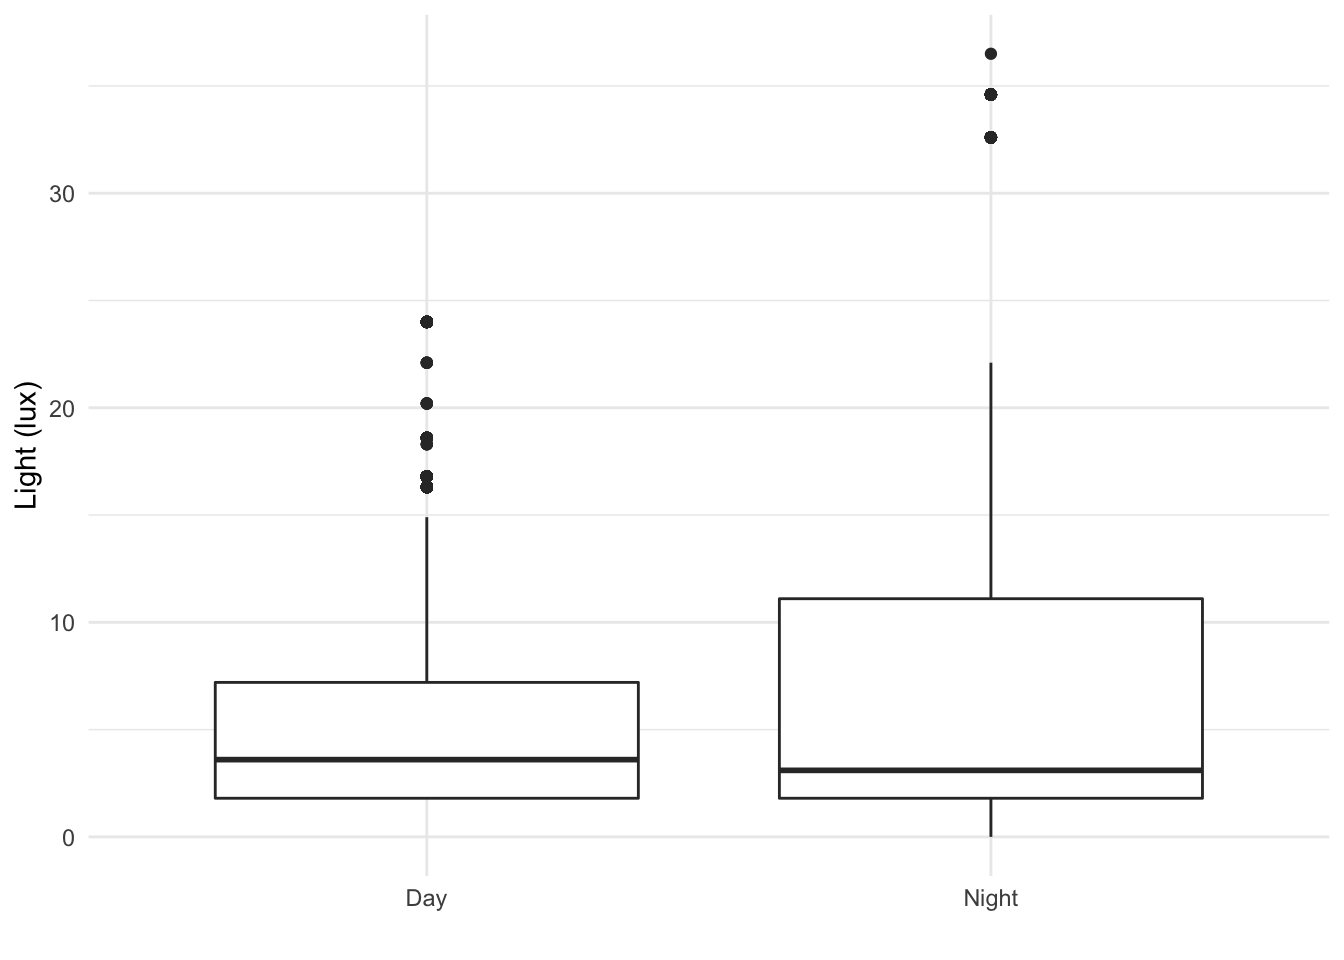
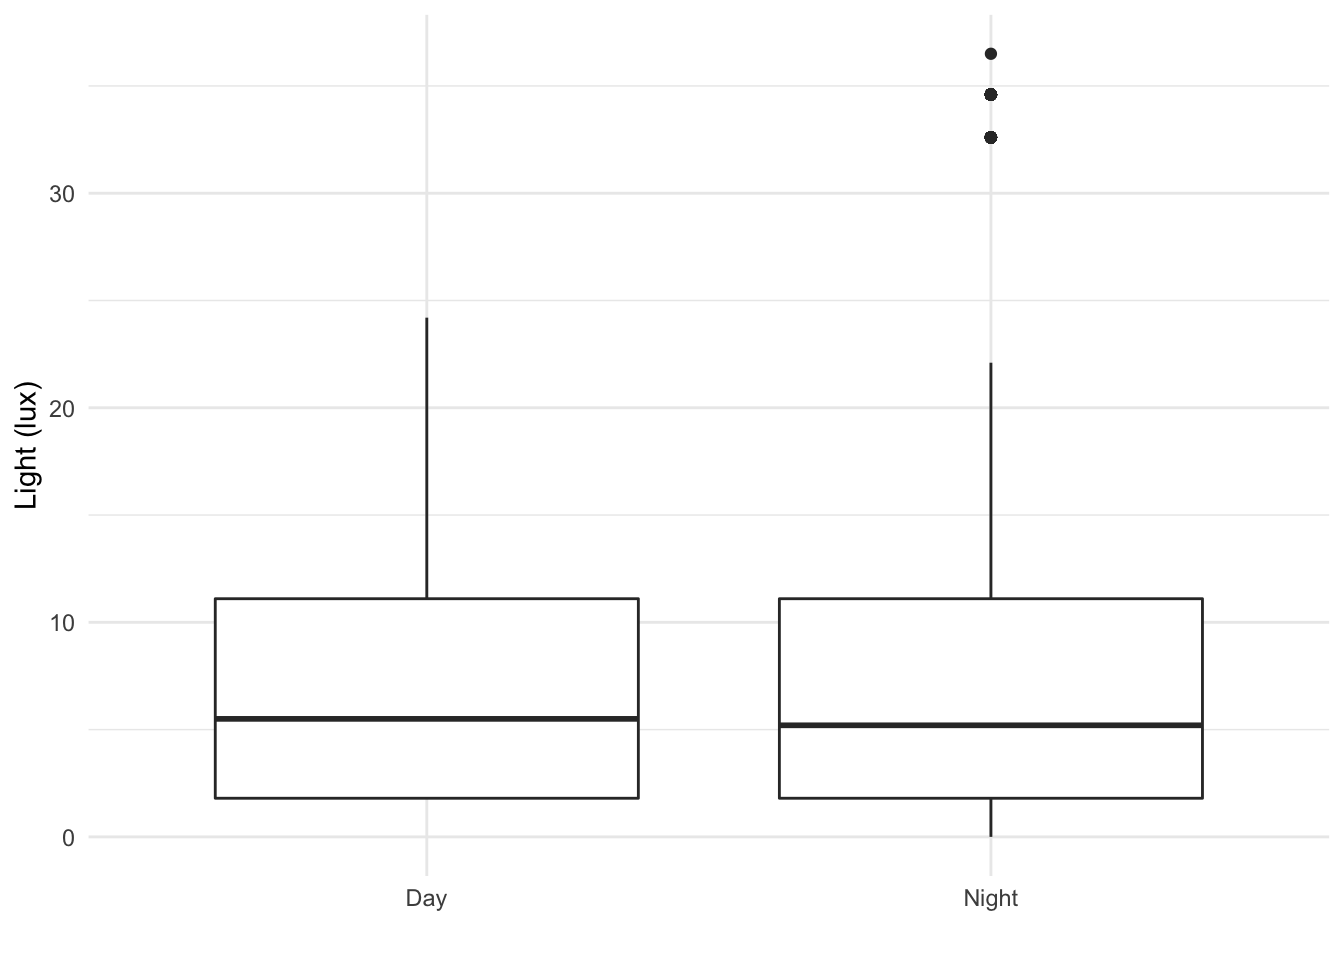
fixing tutorial

diff --git a/docs/AQexp2.html b/docs/AQexp2.html
@@ -347,7 +347,7 @@ airDF &lt;- readr::read_tsv(&quot;https://raw.githubusercontent.com/EA30POM/site
 
 ### How many observations and columns do we have?
 dim(airDF)</code></pre>
-<pre><code>## [1] 19010    23</code></pre>
+<pre><code>## [1] 28531    23</code></pre>
 <div id="using-the-view-command" class="section level3" number="1.2.1">
 <h3><span class="header-section-number">1.2.1</span> Using the
 <code>View</code> command</h3>
@@ -437,12 +437,12 @@ their mean <code>Lux</code> values.</p>
 <pre class="r"><code>### Calculating differences in mean Lux values
 obs_diff &lt;- diff( mean( Lux ~ DayNight, data=airDF, na.rm=T ) )
 obs_diff # print out the value</code></pre>
-<pre><code>##     Night 
-## 0.9264511</code></pre>
-<p>OK, so we see that there is a difference of 0.93 in mean light levels
-across day and night. Is this a meaningful difference though? Our null
-hypothesis is that there is <strong>no difference</strong> in mean light
-levels between day and night (again, a silly example, I know).</p>
+<pre><code>##      Night 
+## -0.5770775</code></pre>
+<p>OK, so we see that there is a difference of -0.58 in mean light
+levels across day and night. Is this a meaningful difference though? Our
+null hypothesis is that there is <strong>no difference</strong> in mean
+light levels between day and night (again, a silly example, I know).</p>
 <p>Logically, if there is a meaningful difference, then if we shuffle
 our data around, that should lead to different results than what we see.
 That is one way to <em>simulate</em> statistics to test the null
@@ -455,20 +455,20 @@ another function, <code>select</code>, to pull out particular columns of
 interest from the data.</p>
 <pre class="r"><code>airDF %&gt;%
   dplyr::select(Date,Time,Lux,DayNight)</code></pre>
-<pre><code>## # A tibble: 19,010 x 4
+<pre><code>## # A tibble: 28,531 x 4
 ##    Date       Time         Lux DayNight
 ##    &lt;date&gt;     &lt;Period&gt;   &lt;dbl&gt; &lt;chr&gt;   
-##  1 2022-12-09 13H 9M 24S  24   Day     
-##  2 2022-12-09 13H 9M 25S   7.2 Day     
-##  3 2022-12-09 13H 9M 26S   7.2 Day     
-##  4 2022-12-09 13H 9M 27S   7.2 Day     
-##  5 2022-12-09 13H 9M 28S   7.2 Day     
-##  6 2022-12-09 13H 9M 29S  24   Day     
-##  7 2022-12-09 13H 9M 30S   7.2 Day     
-##  8 2022-12-09 13H 9M 31S   7.2 Day     
-##  9 2022-12-09 13H 9M 32S   7.2 Day     
-## 10 2022-12-09 13H 9M 33S   7.3 Day     
-## # … with 19,000 more rows</code></pre>
+##  1 2022-07-09 22H 0M 3S   11.1 Night   
+##  2 2022-07-09 22H 0M 4S    9.1 Night   
+##  3 2022-07-09 22H 0M 5S   11.1 Night   
+##  4 2022-07-09 22H 0M 6S   11.1 Night   
+##  5 2022-07-09 22H 0M 7S   11.1 Night   
+##  6 2022-07-09 22H 0M 8S    9.1 Night   
+##  7 2022-07-09 22H 0M 9S    9.1 Night   
+##  8 2022-07-09 22H 0M 10S   9.1 Night   
+##  9 2022-07-09 22H 0M 11S  11.1 Night   
+## 10 2022-07-09 22H 0M 12S  11.1 Night   
+## # … with 28,521 more rows</code></pre>
 <p>Here’s what the data look like if we shuffle it by randomizing the
 assignment of observations as day or night. This is like a chaos agent
 coming around and slapping a new label for day or night on at random for
@@ -476,37 +476,37 @@ every row in the data table. (But if we think <code>mean(Lux)</code> is
 the same for <code>Day</code> and <code>Night</code>, then that should
 be a perfectly OK action by the chaos agent.)</p>
 <pre class="r"><code>print(resample(airDF[,c(&quot;Date&quot;,&quot;Time&quot;,&quot;Lux&quot;,&quot;DayNight&quot;)],groups=DayNight,shuffled=c(&quot;Lux&quot;)))</code></pre>
-<pre><code>## # A tibble: 19,010 x 5
+<pre><code>## # A tibble: 28,531 x 5
 ##    Date       Time        DayNight   Lux orig.id    
 ##    &lt;date&gt;     &lt;Period&gt;    &lt;chr&gt;    &lt;dbl&gt; &lt;chr&gt;      
-##  1 2022-08-09 1H 35M 51S  Day        3.6 17796.8606 
-##  2 2022-08-09 12H 5M 2S   Day        5.5 8793.18225 
-##  3 2022-09-09 12H 16M 34S Day        7.2 3623.603   
-##  4 2022-09-09 12H 58M 11S Day       14.9 15754.6227 
-##  5 2022-07-09 12H 50M 5S  Day        3.6 7264.8563  
-##  6 2022-08-09 11H 28M 41S Day        7.2 6298.17    
-##  7 2022-08-09 12H 3M 50S  Day        1.8 8721.17432 
-##  8 2022-08-09 12H 33M 32S Day        1.8 14269.7141 
-##  9 2022-08-09 11H 57M 20S Day        1.8 18128.18002
-## 10 2022-12-09 13H 18M 31S Day        1.8 548.17461  
-## # … with 19,000 more rows</code></pre>
+##  1 2022-07-09 12H 44M 59S Day        3.1 5851.16135 
+##  2 2022-08-09 12H 1M 24S  Day       16.8 23827.22894
+##  3 2022-09-09 12H 58M 52S Day        9.1 16535.27681
+##  4 2022-08-09 15H 7M 50S  Day        1.8 27766.14249
+##  5 2022-08-09 15H 9M 55S  Day        1.8 27891.17774
+##  6 2022-09-09 12H 54M 32S Day       11.1 16275.25576
+##  7 2022-09-09 13H 5M 15S  Day        1.8 11197.18405
+##  8 2022-09-09 13H 14M 38S Day       13   11760.2401 
+##  9 2022-09-09 12H 16M 25S Day        3.1 2536.16692 
+## 10 2022-12-09 13H 19M 59S Day       16.8 27168.22894
+## # … with 28,521 more rows</code></pre>
 <p>We can repeat that procedure again and see how the data shifts if we
 do another shuffle.</p>
 <pre class="r"><code>print(resample(airDF[,c(&quot;Date&quot;,&quot;Time&quot;,&quot;Lux&quot;,&quot;DayNight&quot;)],groups=DayNight,shuffled=c(&quot;Lux&quot;)))</code></pre>
-<pre><code>## # A tibble: 19,010 x 5
+<pre><code>## # A tibble: 28,531 x 5
 ##    Date       Time        DayNight   Lux orig.id    
 ##    &lt;date&gt;     &lt;Period&gt;    &lt;chr&gt;    &lt;dbl&gt; &lt;chr&gt;      
-##  1 2022-08-09 1H 30M 6S   Day        3.6 17451.11028
-##  2 2022-09-09 12H 20M 38S Day       22.1 3867.726   
-##  3 2022-08-09 12H 6M 42S  Day        1.8 18690.7052 
-##  4 2022-08-09 1H 29M 16S  Day        3.6 17401.8693 
-##  5 2022-08-09 12H 3M 42S  Day        1.8 8713.16724 
-##  6 2022-08-09 12H 19M 45S Day        1.8 13442.6795 
-##  7 2022-08-09 11H 32M 52S Day       16.3 6549.8824  
-##  8 2022-08-09 12H 6M 7S   Day       11.1 8858.6334  
-##  9 2022-08-09 12H 5M 10S  Day        1.8 8801.16407 
-## 10 2022-08-09 12H 33M 18S Day        3.6 14255.9202 
-## # … with 19,000 more rows</code></pre>
+##  1 2022-09-09 13H 4M 3S   Day        3.1 11125.16626
+##  2 2022-07-09 12H 50M 12S Day        3.6 8011.9453  
+##  3 2022-12-09 2H 15M 9S   Day        5.5 25900.23695
+##  4 2022-08-09 12H 6M 39S  Day       16.8 24142.23171
+##  5 2022-07-09 12H 57M 8S  Day       11.1 17247.2205 
+##  6 2022-08-09 12H 6M 0S   Day        9.1 9591.28489 
+##  7 2022-08-09 11H 30M 47S Day        3.1 5346.16608 
+##  8 2022-08-09 12H 26M 11S Day        3.6 14568.11222
+##  9 2022-08-09 12H 9M 36S  Day       16.8 9807.22870 
+## 10 2022-08-09 11H 59M 55S Day       13   9226.5218  
+## # … with 28,521 more rows</code></pre>
 <p>Let’s shuffle the data and see what that means for the distribution
 of mean <code>Lux</code> differences between day and night.</p>
 <pre class="r"><code>### Create random differences by shuffling the data
@@ -516,17 +516,17 @@ names(randomizing_diffs)[1] &lt;- &quot;DiffMeans&quot; # change the name of the
 
 # View first few rows of data
 head(randomizing_diffs)</code></pre>
-<pre><code>##       DiffMeans
-## 1 -0.0364445938
-## 2 -0.0003672704
-## 3  0.1118709363
-## 4 -0.0492263953
-## 5  0.0300080554
-## 6  0.0069033066</code></pre>
+<pre><code>##      DiffMeans
+## 1 -0.066659941
+## 2  0.008660025
+## 3 -0.059106846
+## 4 -0.032157630
+## 5  0.027563859
+## 6  0.042571591</code></pre>
 <p>Now we can visualize the distribution of simulated differences in
 mean light levels. Where would our observed difference in mean light
 levels fall?</p>
-<pre class="r"><code>gf_histogram(~ DiffMeans, fill = ~ (DiffMeans &gt;= obs_diff),
+<pre class="r"><code>gf_histogram(~ DiffMeans, fill = ~ (DiffMeans &lt;= obs_diff),
              data = randomizing_diffs,
              xlab=&quot;Difference in mean light across day/night under null&quot;,
              ylab=&quot;Count&quot;)</code></pre>
@@ -539,7 +539,7 @@ class="math inline">\(p\)</span>-value &lt; 0.05, that we reject the
 null hypothesis. There is a difference in mean light level between day
 and night.</p>
 <pre class="r"><code># What proportion of simulated values were larger than our observed difference?
-prop( ~ DiffMeans &gt;= obs_diff, data = randomizing_diffs)</code></pre>
+prop( ~ DiffMeans &lt;= obs_diff, data = randomizing_diffs)</code></pre>
 <pre><code>## prop_TRUE 
 ##         0</code></pre>
 </div>
@@ -566,8 +566,8 @@ I can measure that by calculating a correlation coefficient.</p>
 <pre class="r"><code>### Calculate observed correlation
 obs_cor &lt;- cor(Lux ~ TempC, data=airDF, use=&quot;complete.obs&quot;) # store observed correlation in obs_cor of Lux and Temperature
 obs_cor # print out value</code></pre>
-<pre><code>## [1] 0.1917319</code></pre>
-<p>Is this value of a correlation coefficient of 0.19 meaningful? Let’s
+<pre><code>## [1] 0.1308332</code></pre>
+<p>Is this value of a correlation coefficient of 0.13 meaningful? Let’s
 test that against a null hypothesis. Our null is that there’s no
 meaningful association. That is, the correlation coefficient is actually
 0.</p>
@@ -593,7 +593,7 @@ when we shuffle our data?</p>
 <pre class="r"><code>quantiles_cor &lt;- qdata( ~ cor, p = c(0.025, 0.975), data=randomizing_cor) # calculate the 2.5% and 97.5% quantiles in our simulated correlation coefficient data (note that 97.5-2.5 = 95!)
 quantiles_cor # display the quantiles</code></pre>
 <pre><code>##      2.5%     97.5% 
-## 0.1734142 0.2098956</code></pre>
+## 0.1168158 0.1455141</code></pre>
 <p>The values above give us a 95% confidence interval estimate for our
 correlation coefficient!</p>
 <p>Do we clearly see that our correlation coefficient distribution does
